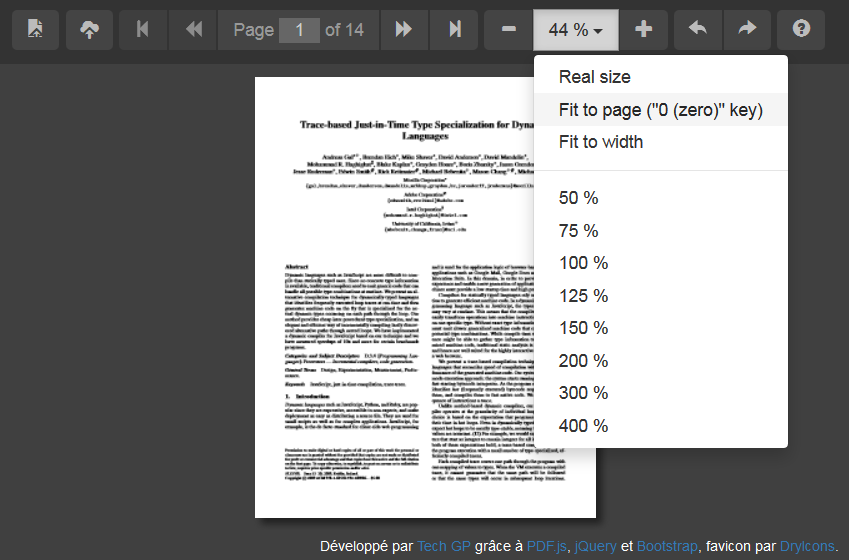
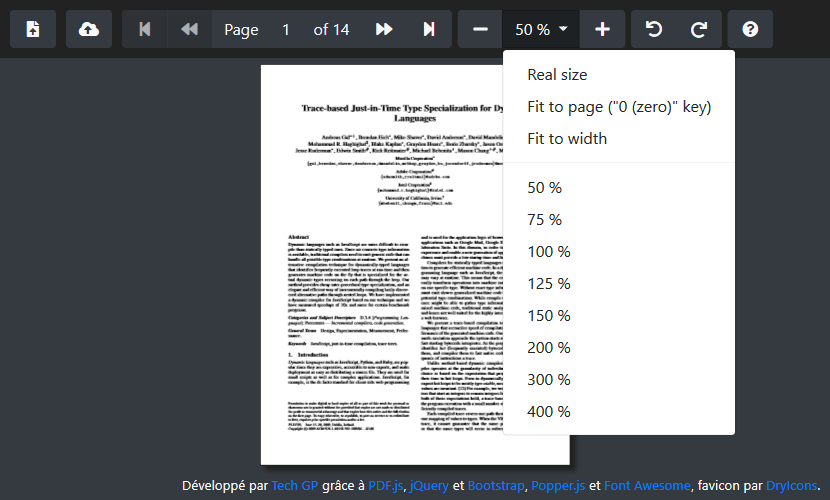
correction du bandeau inférieur en mode clair + mise à jour des captures d'écran

diff --git a/webapp/webapps-pdf.html b/webapp/webapps-pdf.html
@@ -19,7 +19,7 @@ body { width: 100%; height: 100%; display: flex; flex-direction: column; }
 #pdf-content { flex: auto; }
 #pdf-container { display: none; position: fixed; z-index: 0; left: 0; top: 54px; right: 0; bottom: 26px; }
 #pdf-start, #pdf-wait { display: none; font-size: 14pt; text-align: center; position: absolute; left: 50%; top: 40%; width: 20em; margin-left: -10em; padding: 2.5em; }
-#pdf-copyright { flex: none; padding: 5px 10px; color: white; text-align: right; font-size: smaller; }
+#pdf-copyright { flex: none; padding: 5px 10px; text-align: right; font-size: smaller; }
 		</style>
 	</head>
 	<body class="bg-dark">
@@ -34,7 +34,7 @@ body { width: 100%; height: 100%; display: flex; flex-direction: column; }
 	<div id="pdf-wait" class="border border-primary text-primary">Chargement en cours ...</div>
 </div>
 
-<div id="pdf-copyright">
+<div id="pdf-copyright" class="text-light">
 	Développé par <a target="_blank" href="https://github.com/guillaumeprevot">Tech GP</a>
 	grâce à <a target="_blank" href="http://mozilla.github.io/pdf.js/">PDF.js</a>,
 	<a target="_blank" href="http://jquery.com/">jQuery</a> et
@@ -92,6 +92,7 @@ $(function() {
 	if (!options.dark) {
 		$('body').removeClass('bg-dark').addClass('bg-light');
 		$('.btn-dark').removeClass('btn-dark').addClass('btn-light text-dark');
+		$('#pdf-copyright').removeClass('text-light').addClass('text-dark');
 	}
 
 	var lang = PDFLang[navigator.language] || PDFLang['en'];

diff --git a/README.md b/README.md
@@ -23,6 +23,8 @@ Plus d'infos chez [Google](https://developers.google.com/web/fundamentals/primer
 
 ![Présentation de l'IHM](./screenshots/webapps-pdf-1.png)
 
+![Mode clair disponible](./screenshots/webapps-pdf-2.png)
+
 ## Licence
 
 Ce projet est distribué sous licence MIT, reproduite dans le fichier LICENSE ici présent.
@@ -54,4 +56,4 @@ Ce projet est distribué sous licence MIT, reproduite dans le fichier LICENSE ic
 - 2018-04-21 : réorganisation des traces "console" du service worker
 - 2018-08-24 : passage sur "Bootstrap 4" (+ Popper + FontAwesome) + refactoring pour gérer un mode "dark" (par défaut) ou "light" (?dark=false)
 - 2018-08-24 : mise à jour de PDF.js (1.9.426 en 1.10.100)
-
+- 2018-08-24 : correction du bandeau inférieur en mode clair + mise à jour des captures d'écran
